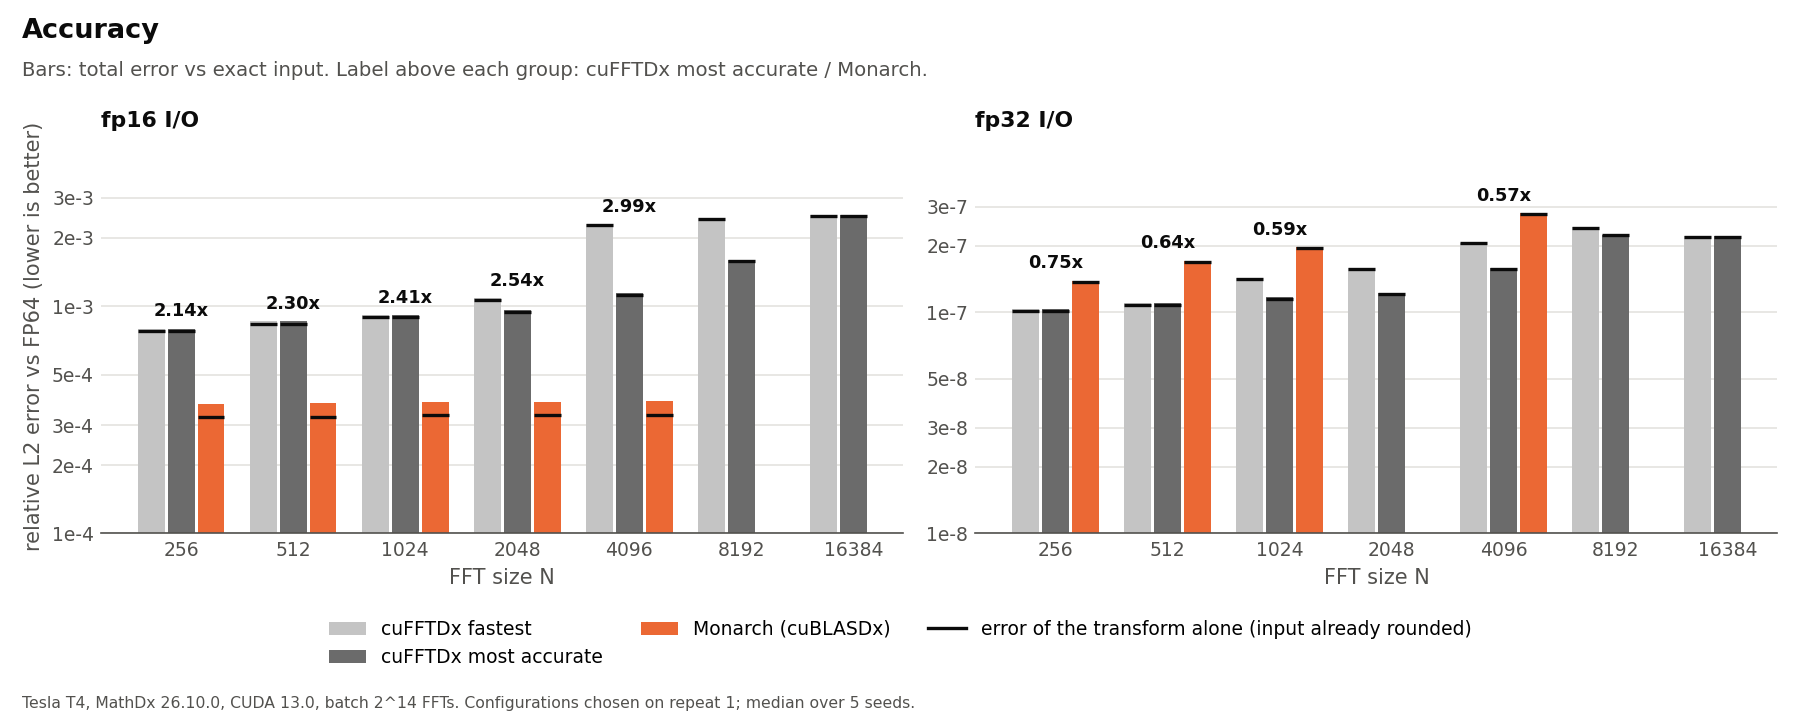
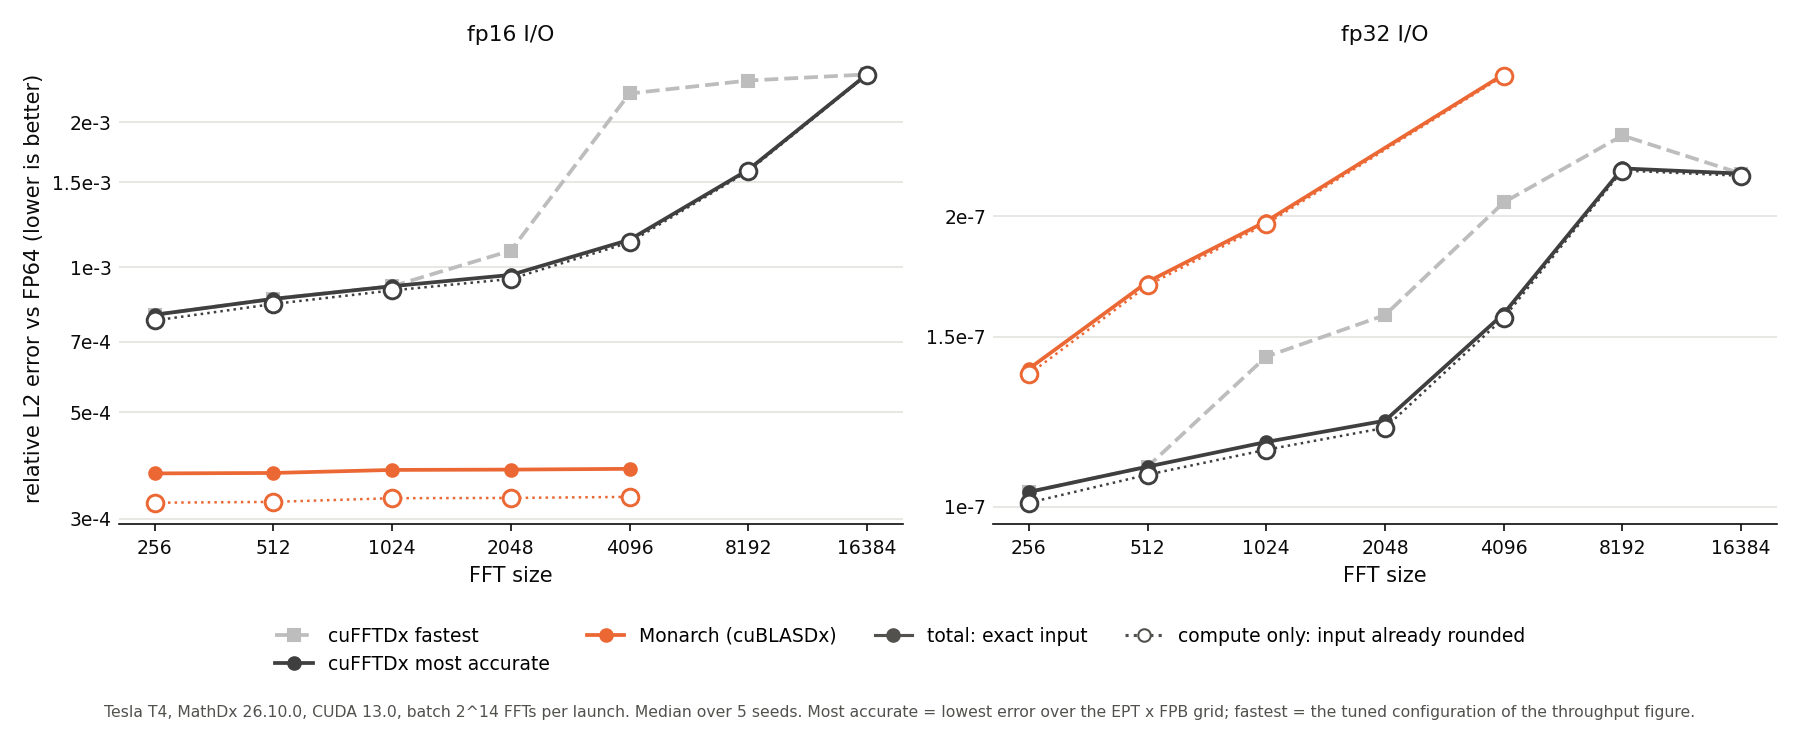
restyle readme figures after the cufftdx docs charts: throughput relative to tuned, error as lines

diff --git a/scripts/final.py b/scripts/final.py
@@ -164,142 +164,128 @@ def main():
         figures(sel, reps, later, err, a.figures)
 
 
-# Bar charts in the layout of vendor benchmark slides: grouped bars per N, baselines in grays, the subject
-# (Monarch) in the accent color, the key ratio printed above its bar, the setup in a footnote. Neutral palette:
-# no vendor branding, since this is not an NVIDIA result.
-GRAY_LIGHT, GRAY_DARK = "#c4c4c4", "#6b6b6b"
+# Layout after the performance charts in the cuFFTDx docs (examples page, 26.10): throughput relative to a
+# baseline normalized to 1.0 and drawn in a light color, the ratio printed on each bar, legend and setup note
+# below. Neutral palette and default font: these are not NVIDIA results.
+BASE, DEFAULT, ACCURATE = "#bdbdbd", "#7f7f7f", "#3f3f3f"
+ROLE_COLOR = {"tuned": BASE, "default": DEFAULT, "accurate": ACCURATE, "c32_tuned": C32, "c32_accurate": C32,
+              "monarch": plot.COLOR["monarch"]}
 
 
-def bars(ax, ns, series, logy=False):
-    # series: [(label, color, {n: (value, lo, hi, compute_or_None)})]; returns x position of each (series, n)
-    w = 0.8 / len(series)
-    pos = {}
-    # log axis: every bar starts at the same decade, below the smallest value with margin, so no bar reads as zero
-    floor = 10 ** math.floor(math.log10(min(min(v[0], v[3] or v[0]) for _, _, vals in series for v in vals.values()) / 1.5)) if logy else 0
-    for i, (label, color, vals) in enumerate(series):
-        for j, n in enumerate(ns):
-            if n not in vals:
-                continue
-            v, lo, hi, c = vals[n]
-            x = j - 0.4 + w * (i + 0.5)
-            pos[(label, n)] = (x, v, hi)
-            ax.bar(x, v - floor, w * 0.9, bottom=floor, color=color, label=label if j == min(k for k, m in enumerate(ns) if m in vals) else None,
-                   zorder=2)
-            if hi > lo:
-                ax.errorbar(x, v, yerr=[[v - lo], [hi - v]], color=plot.INK, linewidth=0.8, capsize=1.5, zorder=3)
-            if c is not None:
-                ax.hlines(c, x - w * 0.45, x + w * 0.45, color=plot.INK, linewidth=1.6, zorder=3)
-    ax.set_xticks(range(len(ns)), [str(n) for n in ns])
-    ax.set_xlabel("FFT size N", color=plot.MUTED)
-    if logy:
-        ax.set_yscale("log")
-        top = max(v[0] for _, _, vals in series for v in vals.values())
-        ticks = [m * 10 ** e for e in range(int(math.log10(floor)), int(math.log10(top)) + 2) for m in (1, 2, 3, 5)
-                 if floor <= m * 10 ** e <= top * 1.3]
-        ax.set_ylim(floor, top * 1.35)
-        ax.yaxis.set_major_locator(matplotlib.ticker.FixedLocator(ticks))
-        ax.yaxis.set_major_formatter(matplotlib.ticker.FuncFormatter(
-            lambda y, _: f"{y / 10 ** math.floor(math.log10(y)):.0f}e{math.floor(math.log10(y))}"))
-        ax.yaxis.set_minor_locator(matplotlib.ticker.NullLocator())
+def axis_style(ax):
     ax.grid(True, axis="y", color=plot.GRID, linewidth=0.8)
     ax.set_axisbelow(True)
     for sp in ("top", "right", "left"):
         ax.spines[sp].set_visible(False)
-    ax.spines["bottom"].set_color(plot.MUTED)
-    ax.tick_params(colors=plot.MUTED, labelsize=9, length=0)
-    return pos
+    ax.spines["bottom"].set_color(plot.INK)
+    ax.tick_params(colors=plot.INK, labelsize=9)
+    ax.tick_params(axis="y", length=0)
 
 
-def annotate(ax, pos, label, ns, ratio, logy=False):
-    # one label per group, above its tallest bar and centered on the group: above the Monarch bar alone it ran
-    # into the taller neighbouring bars
-    tops = {}
-    for (_, n), (_, _, hi) in pos.items():
-        tops[n] = max(tops.get(n, 0), hi)
-    for j, n in enumerate(ns):
-        if (label, n) in pos and n in ratio:
-            ax.annotate(f"{ratio[n]:.2f}x", (j, tops[n]), xytext=(0, 4), textcoords="offset points", ha="center",
-                        va="bottom", fontsize=8.5, fontweight="bold", color=plot.INK)
-    lo, hi = ax.get_ylim()
-    ax.set_ylim(lo, hi * (1.6 if logy else 1.1))
-
-
-def header(fig, title, subtitle, foot):
-    fig.text(0.012, 0.975, title, ha="left", va="top", fontsize=13, fontweight="bold", color=plot.INK)
-    fig.text(0.012, 0.915, subtitle, ha="left", va="top", fontsize=9.5, color=plot.MUTED)
-    fig.text(0.012, 0.012, foot, ha="left", va="bottom", fontsize=7.5, color=plot.MUTED)
+def legend_below(fig, axes, extra=()):
+    handles, labels = [], []
+    for ax in axes:
+        for h, l in zip(*ax.get_legend_handles_labels()):
+            if l not in labels:
+                handles.append(h), labels.append(l)
+    for h, l in extra:
+        handles.append(h), labels.append(l)
+    fig.legend(handles, labels, loc="lower center", bbox_to_anchor=(0.5, 0.06), ncol=4, frameon=False, fontsize=9)
 
 
 def figures(sel, reps, later, err, out):
-    r0 = next(r for r in reps[0].values())
-    foot = (f"{r0['gpu']}, MathDx {r0['mathdx']}, CUDA {r0['cuda_runtime'] // 1000}.{r0['cuda_runtime'] % 1000 // 10}, "
-            f"batch 2^14 FFTs. Configurations chosen on repeat 1; bars are the mean of repeats 2-3, whiskers their range.")
+    r0 = next(iter(reps[0].values()))
+    setup = (f"{r0['gpu']}, MathDx {r0['mathdx']}, CUDA {r0['cuda_runtime'] // 1000}.{r0['cuda_runtime'] % 1000 // 10}, "
+             f"batch 2^14 FFTs per launch.")
     have_c32 = any(k[0].startswith("c32") for k in sel)
-    ref, ref_name = ("c32_tuned", "cuFFTDx fp32-compute tuned") if have_c32 else ("tuned", "cuFFTDx tuned")
 
-    def gb(role, prec, n):
-        v = [rep.get(sel[(role, prec, n)]) for rep in later] if (role, prec, n) in sel else []
-        return stats([x["gbps_eff"] for x in v]) if v and all(v) else None
+    def ratios(role, prec, n):
+        if (role, prec, n) not in sel or ("tuned", prec, n) not in sel:
+            return None
+        v = [rep.get(sel[(role, prec, n)]) for rep in later]
+        t = [rep.get(sel[("tuned", prec, n)]) for rep in later]
+        if not (all(v) and all(t)):
+            return None
+        return stats([a["gbps_eff"] / b["gbps_eff"] for a, b in zip(v, t)])
 
-    fig, axes = plt.subplots(1, 2, figsize=(12, 4.8), sharey=True)
+    roles = [("tuned", "cuFFTDx tuned (= 1.0)"), ("default", "cuFFTDx default")]
+    if have_c32:
+        roles.append(("c32_tuned", "cuFFTDx fp32 compute, fp16 I/O, tuned"))
+    roles.append(("monarch", "Monarch (cuBLASDx)"))
+    fig, axes = plt.subplots(1, 2, figsize=(13, 4.9), sharey=True)
     for ax, prec in zip(axes, plot.PRECS):
         ns = sorted({n for (_, p, n) in sel if p == prec})
-        series = []
-        for role, color, name in (("default", GRAY_LIGHT, "cuFFTDx default"), ("tuned", GRAY_DARK, "cuFFTDx tuned"),
-                                  ("c32_tuned", C32, "cuFFTDx fp32 compute, fp16 I/O, tuned"),
-                                  ("monarch", plot.COLOR["monarch"], "Monarch (cuBLASDx)")):
-            vals = {n: (*gb(role, prec, n), None) for n in ns if gb(role, prec, n)}
-            if vals:
-                series.append((name, color, vals))
-        pos = bars(ax, ns, series)
-        r = ref if any(gb(ref, prec, n) for n in ns) else "tuned"
-        ratio = {n: gb("monarch", prec, n)[0] / gb(r, prec, n)[0] for n in ns if gb("monarch", prec, n) and gb(r, prec, n)}
-        annotate(ax, pos, "Monarch (cuBLASDx)", ns, ratio)
-        ax.set_title(f"{prec} I/O", loc="left", fontsize=10.5, color=plot.INK, fontweight="bold")
-        if prec == "fp16":
-            ax.set_ylabel("effective GB/s (higher is better)", color=plot.MUTED)
-    handles, labels = [], []
-    for ax in axes:
-        for h, l in zip(*ax.get_legend_handles_labels()):
-            if l not in labels:
-                handles.append(h), labels.append(l)
-    fig.legend(handles, labels, loc="lower center", bbox_to_anchor=(0.5, 0.05), ncol=4, frameon=False, fontsize=9)
-    header(fig, "Throughput", f"Label above each group: Monarch / {ref_name}"
-           + (" (fp16 I/O), / cuFFTDx tuned (fp32 I/O)." if have_c32 else "."), foot)
-    fig.tight_layout(rect=(0, 0.13, 1, 0.88))
+        present = [(r, name) for r, name in roles if any(ratios(r, prec, n) for n in ns)]
+        w = 0.8 / len(present)
+        for i, (role, name) in enumerate(present):
+            for j, n in enumerate(ns):
+                rs = ratios(role, prec, n)
+                if not rs:
+                    continue
+                x = j - 0.4 + w * (i + 0.5)
+                m, lo, hi = rs
+                ax.bar(x, m, w * 0.88, color=ROLE_COLOR[role], zorder=2,
+                       label=name if j == min(k for k, nn in enumerate(ns) if ratios(role, prec, nn)) else None)
+                if role == "tuned":
+                    continue
+                if hi > lo:
+                    ax.errorbar(x, m, yerr=[[m - lo], [hi - m]], color=plot.INK, linewidth=0.7, capsize=1.5, zorder=3)
+                ax.annotate(f"{m:.2f}", (x, hi), xytext=(0, 2), textcoords="offset points", ha="center", va="bottom",
+                            fontsize=7, color=plot.INK, rotation=90 if len(present) > 3 else 0)
+        ax.axhline(1.0, color=plot.INK, linestyle="--", linewidth=0.9, zorder=1)
+        ax.set_xticks(range(len(ns)), [str(n) for n in ns])
+        ax.set_xlabel("FFT size", color=plot.INK)
+        ax.set_title(f"{prec} I/O", fontsize=10.5, color=plot.INK)
+        axis_style(ax)
+    axes[0].set_ylabel("throughput relative to tuned cuFFTDx (higher is better)", color=plot.INK)
+    axes[0].set_ylim(0, max(1.15, axes[0].get_ylim()[1] * 1.06))
+    legend_below(fig, axes)
+    fig.text(0.5, 0.02, setup + " Configurations chosen on repeat 1; bars are the mean ratio over repeats 2-3, whiskers "
+             "their range. Tuned can fall below default when the repeat-1 winner did not keep its lead.",
+             ha="center", va="bottom", fontsize=7.5, color=plot.MUTED, wrap=True)
+    fig.tight_layout(rect=(0, 0.14, 1, 1))
     fig.savefig(os.path.join(out, "throughput_tuned.png"), dpi=150)
 
-    acc_ref = "c32_accurate" if have_c32 else "accurate"
-    fig, axes = plt.subplots(1, 2, figsize=(12, 4.8))
+    eroles = [("tuned", "cuFFTDx fastest", "s"), ("accurate", "cuFFTDx most accurate", "o")]
+    if have_c32:
+        eroles.append(("c32_accurate", "cuFFTDx fp32 compute, fp16 I/O, most accurate", "D"))
+    eroles.append(("monarch", "Monarch (cuBLASDx)", "o"))
+    fig, axes = plt.subplots(1, 2, figsize=(12, 4.9))
     for ax, prec in zip(axes, plot.PRECS):
-        ns = sorted({p[0] for k in err if k[1] == prec for p in err[k]})
-        series = []
-        for role, color, name in (("tuned", GRAY_LIGHT, "cuFFTDx fastest"), ("accurate", GRAY_DARK, "cuFFTDx most accurate"),
-                                  ("c32_accurate", C32, "cuFFTDx fp32 compute, fp16 I/O, most accurate"),
-                                  ("monarch", plot.COLOR["monarch"], "Monarch (cuBLASDx)")):
-            vals = {n: (t, t, t, c) for n, t, c in err[(role, prec)]}
-            if vals:
-                series.append((name, color, vals))
-        pos = bars(ax, ns, series, logy=True)
-        ref_err = {n: t for n, t, _ in (err[(acc_ref, prec)] or err[("accurate", prec)])}
-        ratio = {n: ref_err[n] / t for n, t, _ in err[("monarch", prec)] if n in ref_err}
-        annotate(ax, pos, "Monarch (cuBLASDx)", ns, ratio, logy=True)
-        ax.set_title(f"{prec} I/O", loc="left", fontsize=10.5, color=plot.INK, fontweight="bold")
-        if prec == "fp16":
-            ax.set_ylabel("relative L2 error vs FP64 (lower is better)", color=plot.MUTED)
-    handles, labels = [], []
-    for ax in axes:
-        for h, l in zip(*ax.get_legend_handles_labels()):
-            if l not in labels:
-                handles.append(h), labels.append(l)
-    tick = matplotlib.lines.Line2D([], [], color=plot.INK, linewidth=1.6)
-    handles.append(tick), labels.append("error of the transform alone (input already rounded)")
-    fig.legend(handles, labels, loc="lower center", bbox_to_anchor=(0.5, 0.05), ncol=3, frameon=False, fontsize=9)
-    acc_name = ("cuFFTDx fp32-compute most accurate / Monarch (fp16 I/O), cuFFTDx most accurate / Monarch (fp32 I/O)"
-                if have_c32 else "cuFFTDx most accurate / Monarch")
-    header(fig, "Accuracy", f"Bars: total error vs exact input. Label above each group: {acc_name}.",
-           foot.replace("bars are the mean of repeats 2-3, whiskers their range", "median over 5 seeds"))
-    fig.tight_layout(rect=(0, 0.15, 1, 0.88))
+        for role, name, mk in eroles:
+            pts = err[(role, prec)]
+            if not pts:
+                continue
+            c = ROLE_COLOR[role]
+            ns = [p[0] for p in pts]
+            ax.plot(ns, [p[1] for p in pts], color=c, marker=mk, markersize=6, linewidth=1.8,
+                    linestyle="--" if role == "tuned" else "-", label=name)
+            if role != "tuned":
+                ax.plot(ns, [p[2] for p in pts], color=c, marker=mk, markersize=8, markerfacecolor="white",
+                        markeredgewidth=1.4, linestyle=":", linewidth=1.2)
+        ax.set_xscale("log", base=2)
+        ax.set_yscale("log")
+        allns = sorted({p[0] for k in err if k[1] == prec for p in err[k]})
+        ax.set_xticks(allns, [str(n) for n in allns])
+        ax.xaxis.set_minor_locator(matplotlib.ticker.NullLocator())
+        ys = [v for k in err if k[1] == prec for p in err[k] for v in p[1:] if v]
+        lo, hi = math.floor(math.log10(min(ys))), math.floor(math.log10(max(ys)))
+        ax.yaxis.set_major_locator(matplotlib.ticker.FixedLocator(
+            [m * 10 ** e for e in range(lo, hi + 1) for m in (1, 1.5, 2, 3, 5, 7) if min(ys) / 1.1 <= m * 10 ** e <= max(ys) * 1.1]))
+        ax.yaxis.set_major_formatter(matplotlib.ticker.FuncFormatter(
+            lambda y, _: f"{y / 10 ** math.floor(math.log10(y)):g}e{math.floor(math.log10(y))}"))
+        ax.yaxis.set_minor_locator(matplotlib.ticker.NullLocator())
+        ax.set_xlabel("FFT size", color=plot.INK)
+        ax.set_title(f"{prec} I/O", fontsize=10.5, color=plot.INK)
+        axis_style(ax)
+    axes[0].set_ylabel("relative L2 error vs FP64 (lower is better)", color=plot.INK)
+    hollow = matplotlib.lines.Line2D([], [], color=plot.MUTED, marker="o", markerfacecolor="white", linestyle=":")
+    filled = matplotlib.lines.Line2D([], [], color=plot.MUTED, marker="o", linestyle="-")
+    legend_below(fig, axes, [(filled, "total: exact input"), (hollow, "compute only: input already rounded")])
+    fig.text(0.5, 0.02, setup + " Median over 5 seeds. Most accurate = lowest error over the EPT x FPB grid; "
+             "fastest = the tuned configuration of the throughput figure.",
+             ha="center", va="bottom", fontsize=7.5, color=plot.MUTED)
+    fig.tight_layout(rect=(0, 0.17, 1, 1))
     fig.savefig(os.path.join(out, "error_decomposition.png"), dpi=150)
     print(f"\nfigures in {out}")
 
